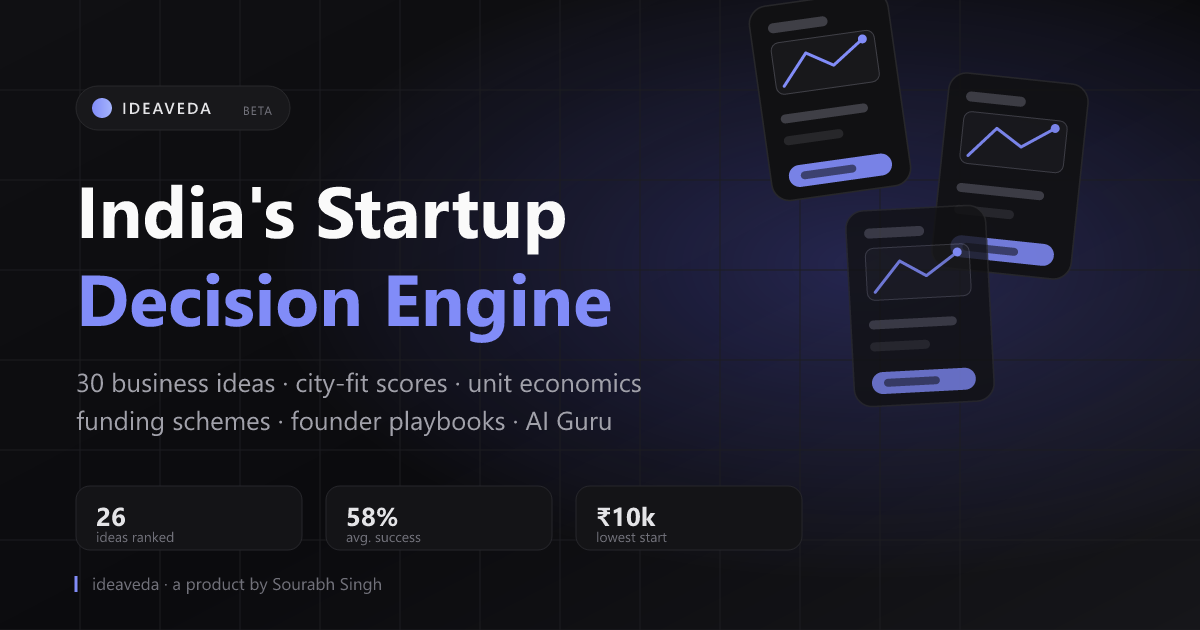
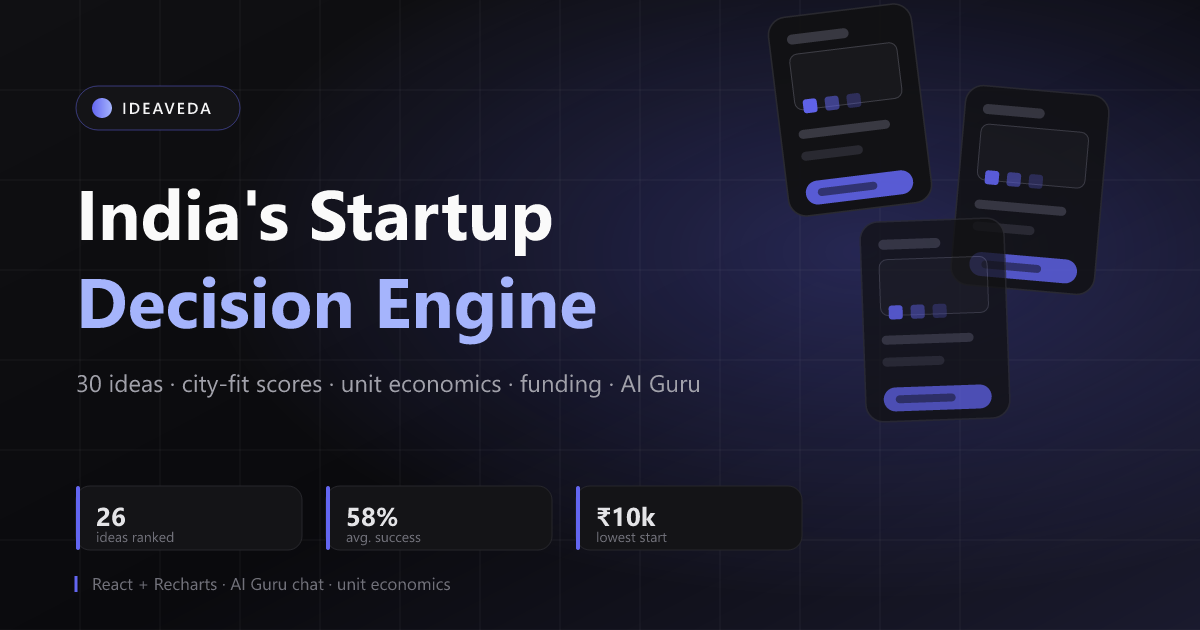
OG card family for all projects + per-app social meta
Four redesigned 1200x630 share cards, one design system, per-project
brand colors: AURA (cyan, real 3D particle core render), IdeaVeda
(indigo), Lucid (amber), Groundwork (green). aura.html, groundwork.html
and lucid.html get the full Open Graph/Twitter meta set pointing at
their own card — link sharing now shows proper thumbnails everywhere.

🤖 Generated with Codebuff

diff --git a/lucid.html b/lucid.html
@@ -561,7 +561,20 @@
   @media (max-width:820px){.voice-caption{font-size:11px;max-width:90%;}.voice-fab{right:12px;top:12px;}}
 
 </style>
-</head>
+
+<meta property="og:type" content="website">
+<meta property="og:title" content="Lucid — Photo Studio in a Browser">
+<meta property="og:description" content="Layer compositing, tone curves, live histogram, batch processing, camera bridge — pro image tools, one file.">
+<meta property="og:image" content="https://sourabh7300.github.io/og-lucid.png">
+<meta property="og:image:width" content="1200">
+<meta property="og:image:height" content="630">
+<meta property="og:url" content="https://sourabh7300.github.io/lucid.html">
+<meta property="og:site_name" content="Sourabh Singh Portfolio">
+<meta name="twitter:card" content="summary_large_image">
+<meta name="twitter:title" content="Lucid — Photo Studio in a Browser">
+<meta name="twitter:description" content="Pro image tools, one HTML file.">
+<meta name="twitter:image" content="https://sourabh7300.github.io/og-lucid.png">
+  </head>
 <body>
 <div class="ambient-glow" id="ambientGlow"></div>
 <div class="grain-overlay"></div>

diff --git a/groundwork.html b/groundwork.html
@@ -244,7 +244,20 @@
     .lesson-pane{border-left:none; padding:24px 20px 50px;}
   }
 </style>
-</head>
+
+<meta property="og:type" content="website">
+<meta property="og:title" content="Groundwork — Learn AI from Zero">
+<meta property="og:description" content="8 interactive lessons that build real AI intuition — tweak parameters and watch the behavior change.">
+<meta property="og:image" content="https://sourabh7300.github.io/og-groundwork.png">
+<meta property="og:image:width" content="1200">
+<meta property="og:image:height" content="630">
+<meta property="og:url" content="https://sourabh7300.github.io/groundwork.html">
+<meta property="og:site_name" content="Sourabh Singh Portfolio">
+<meta name="twitter:card" content="summary_large_image">
+<meta name="twitter:title" content="Groundwork — Learn AI from Zero">
+<meta name="twitter:description" content="8 interactive AI lessons — no prerequisites.">
+<meta name="twitter:image" content="https://sourabh7300.github.io/og-groundwork.png">
+  </head>
 <body>
 <div id="app">
   <header>
